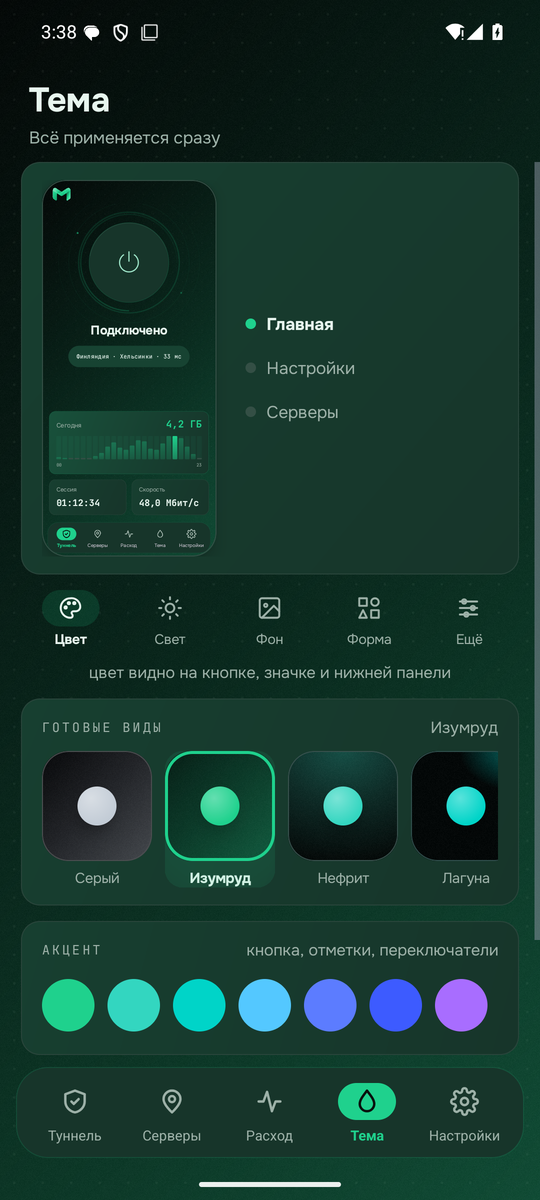
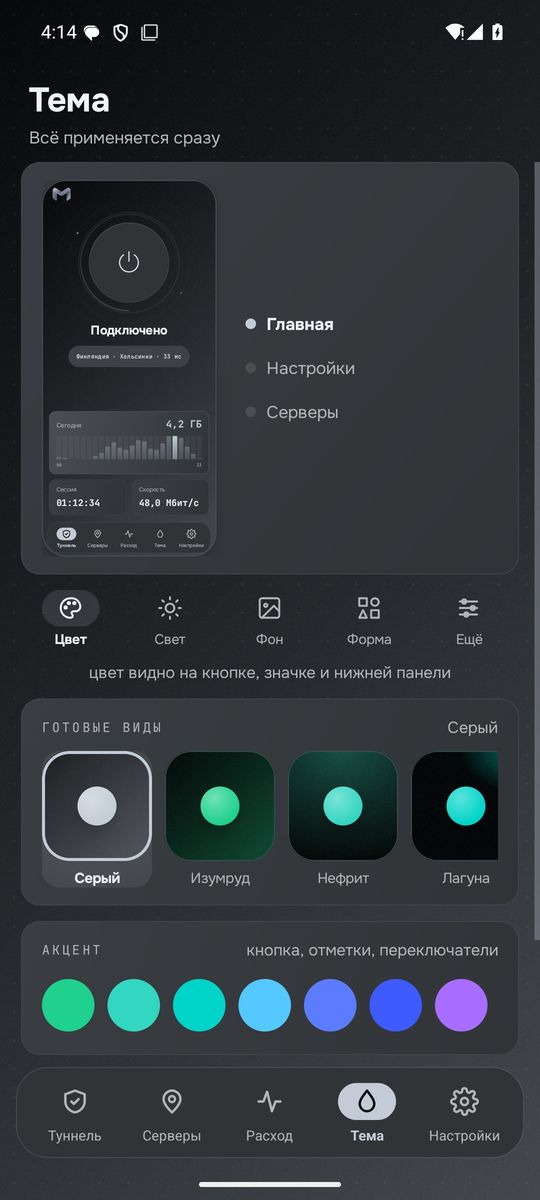
README показывает серую тему и сравнивает пути трафика

diff --git a/README.md b/README.md
@@ -1,131 +1,90 @@
 <div align="center">
 
-<img src="internal/look/assets/marvia-mark.png" alt="Логотип Marvia" height="76">
+<img src="internal/look/assets/marvia-mark.png" alt="Marvia" height="76">
 
 # Marvia
 
-### Подключение для человека. Своя инфраструктура для того, кто выдаёт доступ.
+**VPN для Android и Windows. Свои панель, ноды и протокол VP1.**
 
-Android и Windows · панель и ноды Linux · VP1, VLESS и Trojan
-
-[![Последний релиз](https://img.shields.io/github/v/release/jytt8u/marvia?label=релиз&color=8b9cad)](https://github.com/jytt8u/marvia/releases/latest)
+[![Релиз](https://img.shields.io/github/v/release/jytt8u/marvia?label=релиз&color=8b9cad)](https://github.com/jytt8u/marvia/releases/latest)
 [![Проверки](https://github.com/jytt8u/marvia/actions/workflows/check.yml/badge.svg)](https://github.com/jytt8u/marvia/actions)
-[![Go](https://img.shields.io/badge/Go-1.26.6-8b9cad)](go.mod)
 
-**[Скачать](https://github.com/jytt8u/marvia/releases/latest)** · **[Установить панель](#установка-панели)** · **[Документация](docs/guide.md)** · **[Что пока не готово](#что-пока-не-готово)**
+[**Скачать**](https://github.com/jytt8u/marvia/releases/latest) ·
+[**Установить панель**](#установка-панели) ·
+[**Документация**](docs/guide.md)
 
 </div>
 
----
+## В двух словах
 
-Marvia связывает два привычных сценария. Покупатель получает ссылку, открывает
-её в приложении и подключается. Владелец сервера разворачивает панель и ноды,
-выдаёт доступ вручную или через своего бота и видит сроки, лимиты и расход.
-Панель управляет доступом; VPN-трафик идёт **от приложения к ноде**.
+| Покупателю | Владельцу сервера |
+|---|---|
+| Одна ссылка, выбор живой ноды, расход и сессии в приложении | Панель, ноды, лимиты, резервные копии и API для своего бота |
+| Android: свои и чужие ключи; Windows: TUN-клиент | VP1 рядом с VLESS и Trojan; проверяемое обновление отдельной службой |
 
-## Посмотрите на приложение
+## Экраны
 
-Снимки сделаны с Android-приложения **0.12.2** на эмуляторе. Здесь пустой
-профиль без ключей: настоящие адреса и данные покупателей в README не попадают.
-Цифры в предпросмотре темы — макет.
+Android **0.12.2**, серый вид, эмулятор без ключей. Данные в предпросмотре темы — макет.
 
 <table>
 <tr>
-<td align="center" width="33%"><img src="docs/shots/android-home.png" alt="Главный экран Marvia для Android без добавленного ключа" width="245"><br><sub>Главная · состояние и расход</sub></td>
-<td align="center" width="33%"><img src="docs/shots/android-settings.png" alt="Настройки VPN и DNS в Marvia для Android" width="245"><br><sub>Настройки · маршруты, DNS, VPN</sub></td>
-<td align="center" width="33%"><img src="docs/shots/android-theme.png" alt="Настройка оформления Marvia для Android" width="245"><br><sub>Тема · предпросмотр и акценты</sub></td>
+<td align="center" width="33%"><img src="docs/shots/android-home.png" alt="Главный экран Marvia для Android" width="245"><br><sub>Туннель</sub></td>
+<td align="center" width="33%"><img src="docs/shots/android-settings.png" alt="Настройки Marvia для Android" width="245"><br><sub>Настройки VPN</sub></td>
+<td align="center" width="33%"><img src="docs/shots/android-theme.png" alt="Серый вид Marvia для Android" width="245"><br><sub>Тема</sub></td>
 </tr>
 </table>
 
-Панель для продавца — отдельное приложение на его сервере. Ниже демонстрационные
-записи, созданные для снимков экрана:
-
 <div align="center">
-<img src="docs/shots/panel-clients.png" alt="Панель Marvia: список клиентов на демонстрационных данных" width="900"><br>
-<sub>Клиенты: срок, устройства, трафик и статус</sub>
+<img src="docs/shots/panel-clients.png" alt="Панель Marvia: демонстрационный список клиентов" width="900"><br>
+<sub>Панель: демонстрационные клиенты, сроки, устройства и трафик</sub>
 </div>
 
-<details>
-<summary>Ещё один экран: оформление панели</summary>
-<br>
-<img src="docs/shots/panel-look.png" alt="Панель Marvia: выбор темы и акцентного цвета" width="900">
-</details>
+## Как это работает
 
-## Один доступ, две стороны
+<img src="docs/shots/readme-flow.svg" alt="Управление доступом через панель; VPN-трафик идёт от клиента к ноде без участия панели" width="1000">
 
-```mermaid
-flowchart LR
-    A["Владелец сервера"] -->|"создаёт клиента"| P["Панель Marvia"]
-    B["Свой бот"] -->|"HTTP API"| P
-    P -->|"ссылка доступа"| C["Android или Windows"]
-    P -.->|"права и лимиты"| N["Нода Marvia"]
-    C ==>|"VPN-трафик"| N
-    N ==>|"интернет"| I["Сайты и сервисы"]
-```
+Панель выдаёт права, но не передаёт пакеты. Нода может пережить краткую
+недоступность панели с зашифрованным снимком доступа до 24 часов.
+[Архитектура и границы доверия](docs/architecture.md).
 
-Приложение выбирает рабочую ноду и может перейти на другую, если текущая
-перестала отвечать. Нода не хранит историю посещений. При краткой недоступности
-панели она может запуститься с зашифрованным снимком прав доступа возрастом до
-24 часов; явный отзыв токена и отключение ноды имеют приоритет.
-[Подробнее об архитектуре и границах доверия](docs/architecture.md).
+## Скорость: сравниваем путь, а не вывеску панели
 
-Обновление сервера отделено от веб-панели:
+<img src="docs/shots/readme-speed.svg" alt="Прямой путь клиента к ноде и путь с дополнительным участком через CDN" width="1000">
 
-```mermaid
-flowchart LR
-    P["Панель"] -.->|"запросить обновление"| U["Служба обновления<br/>root"]
-    G["Официальный релиз<br/>GitHub"] -->|"архив и SHA-256"| U
-    U -->|"проверить и установить"| S["Панель или нода"]
-```
+| Сценарий | Путь трафика | Что влияет на результат |
+|---|---|---|
+| **Marvia VP1 напрямую** | клиент → нода | сеть, CPU, реализация VP1 |
+| **Marvia VLESS / Trojan напрямую** | клиент → нода | протокол, TLS и транспорт |
+| **Marzban / Remnawave / 3x-ui с Xray напрямую** | клиент → Xray-нода | те же сервер, сеть и настройки транспорта |
+| **Через CDN** | клиент → CDN → нода | дополнительный участок; доступность может стать лучше, задержка — другой |
 
-Панель не передаёт службе произвольный исполняемый файл. Служба скачивает
-официальный релиз и проверяет его контрольную сумму до установки.
+Во всех строках панель **вне пути пакетов**. Сопоставимых замеров на одинаковом
+сервере и сети пока нет, поэтому рейтинга в Мбит/с здесь нет.
 
-## Что здесь своё
+## Чем отличается от других
 
-| Для покупателя | Для владельца сервера |
-|---|---|
-| Приложения для Android и Windows с единым оформлением | Панель, ноды и API для собственного бота |
-| Одна ссылка Marvia со списком доступных нод | Сроки, квоты, лимит устройств, статистика и резервные копии |
-| На Android — также отдельные ключи и подписки VLESS, VMess, Trojan, Shadowsocks, Hysteria2 и WireGuard | VP1 рядом с VLESS и Trojan: можно обслуживать свои ключи и привычные Xray-клиенты |
-| Маршруты по приложениям, DNS, IPv6, дробление TLS-приветствия, история сессий и темы | Проверяемые релизы и отдельная служба обновления с правами root |
+| Проект | Основной фокус | Сильная сторона |
+|---|---|---|
+| **Marvia** | Панель + ноды + свои Android/Windows + VP1 | один комплект для покупателя и владельца |
+| [Marzban](https://github.com/Gozargah/Marzban) | Xray-панель | периодические квоты, Telegram-бот; есть отдельный [Nabzram](https://github.com/Gozargah/Nabzram) |
+| [Remnawave](https://docs.rw/) | Xray-панель и ноды | шаблоны Mihomo/sing-box, контроль устройств |
+| [3x-ui](https://docs.sanaei.dev/docs/) | Xray-панель | широкий выбор протоколов и админ-инструментов |
 
-VP1 использует Noise IK, X25519, ChaCha20-Poly1305 и BLAKE2s. Самодельных
-криптопримитивов нет; [формат и модель угроз описаны отдельно](docs/protocol.md).
+Marvia пока уступает по автоматическому месячному сбросу квот, импорту клиентов
+и форматам Clash/sing-box. Сравнение основано на документации проектов по
+ссылкам в таблице.
 
-## Как Marvia выглядит рядом с другими панелями
+## Начать
 
-Marvia — пока молодой **полный комплект**, где клиентские приложения развиваются
-в одном проекте с панелью и нодой. Другие проекты сильнее в ряде задач продавца;
-таблица помогает выбрать подходящий инструмент, а не объявляет победителя.
-
-| Проект | Фокус | Клиентский путь | Сильные стороны сегодня |
-|---|---|---|---|
-| **Marvia** | Панель + ноды + Android/Windows + VP1 | Свои приложения и ссылка Marvia; Android принимает внешние ключи | Единый интерфейс покупателя и сервера; свой протокол вместе с VLESS/Trojan |
-| [Marzban](https://github.com/Gozargah/Marzban) | Панель для Xray | Подписки для разных клиентов; есть отдельный [Nabzram](https://github.com/Gozargah/Nabzram) | Периодический сброс трафика, Telegram-бот, зрелая экосистема |
-| [Remnawave](https://docs.rw/) | Панель и ноды Xray | Шаблоны для Mihomo, sing-box и других клиентов | Гибкие форматы подписок и контроль устройств |
-| [3x-ui](https://docs.sanaei.dev/docs/) | Панель Xray | Подписки и конфигурации для разных клиентов | Много протоколов и инструментов администратора |
-
-Сравнение опирается на документацию проектов, ссылки приведены в названиях.
-Функции и форматы у них меняются; перед миграцией проверьте актуальный релиз.
-
-## Начать пользоваться
-
-### Если вам дали ключ
-
-1. Скачайте [Android APK](https://github.com/jytt8u/marvia/releases/latest/download/marvia-android.apk)
-   или [Windows-клиент](https://github.com/jytt8u/marvia/releases/latest/download/marvia-windows.exe).
-   В Google Play приложение пока не опубликовано.
-2. Откройте полученный ключ `marvia://…` во вкладке «Серверы».
-3. Подключитесь на главном экране. Состояние, скорость, расход и историю сессий
-   можно посмотреть в самом приложении.
-
-Для Android подходят также отдельные ключи и подписки перечисленных выше
-протоколов. [Руководство по клиенту](docs/guide.md#клиент-для-android).
+**Получили ключ?** Скачайте [Android APK](https://github.com/jytt8u/marvia/releases/latest/download/marvia-android.apk)
+или [Windows-клиент](https://github.com/jytt8u/marvia/releases/latest/download/marvia-windows.exe),
+добавьте ссылку `marvia://…` во вкладке «Серверы» и подключитесь.
+Android также принимает VLESS, VMess, Trojan, Shadowsocks, Hysteria2 и WireGuard.
+В Google Play приложения пока нет.
 
 ### Установка панели
 
-Понадобятся Linux-сервер и домен с A-записью на него. Скачайте установщик из
+Нужны Linux-сервер и домен с A-записью. Установщик берётся из
 [официального релиза](https://github.com/jytt8u/marvia/releases/latest):
 
 ```bash
@@ -133,49 +92,36 @@ curl -fsSL https://github.com/jytt8u/marvia/releases/latest/download/install-pan
 sh install-panel.sh --domain panel.example.com --email you@example.com
 ```
 
-Установщик проверит контрольные суммы, настроит службу и сертификат. Админский
-токен показывается один раз — сохраните его отдельно. Затем в панели:
-**Ноды → + Нода** выдаст команду установки на другой сервер, а
-**Клиенты → + Клиент** создаст первую ссылку. Для своего бота есть
-[HTTP API](docs/bot.md). [Полная инструкция, требования и восстановление](docs/guide.md).
+Сохраните показанный при установке админский токен. Затем создайте ноду и
+клиента в панели. [Полный порядок](docs/guide.md) · [API бота](docs/bot.md).
 
 ## Что пока не готово
 
-- **Google Play.** Нужны физическая проверка актуальной сборки, политика
-  конфиденциальности внутри приложения, декларации VPN и фоновой службы,
-  тестовый доступ для проверки и тестирование в Play Console.
-  [План публикации](docs/google-play.md).
-- **Для продавцов.** Нет автоматического ежемесячного сброса квоты и импорта
-  покупателей из чужих панелей с сохранением ссылок.
-- **Форматы и платформы.** Нет iOS-клиента, форматов подписок Clash и sing-box,
-  TUIC и плагинов Shadowsocks. Несколько устройств с общим ключом нельзя
-  отозвать по отдельности.
-- **До версии 1.0.** Нужно стабилизировать API бота и форматы ссылок, проверить
-  установку и откат на чистых серверах и добавить поэтапное обновление нод.
+- Google Play: физическая проверка сборки, политика конфиденциальности в
+  приложении, декларации и тестирование. [План публикации](docs/google-play.md).
+- Автоматический месячный сброс квоты и импорт покупателей с сохранением ссылок.
+- iOS, подписки Clash/sing-box, TUIC, плагины Shadowsocks и раздельный отзыв
+  устройств с общим ключом.
+- До 1.0: стабилизация API и ссылок, проверка отката и поэтапное обновление нод.
 
-Версия ниже 1.0 означает, что API и форматы ещё могут меняться. Marvia не
-предоставляет хостинг нод и не принимает платежи: серверы и бот принадлежат
-тому, кто выдаёт доступ.
+Marvia не продаёт доступ, не принимает платежи и не размещает серверы.
+Версия ниже 1.0 означает, что API и форматы могут меняться.
 
-## Документация и сборка
+## Документы и сборка
 
-| Документ | Содержание |
-|---|---|
-| [Руководство](docs/guide.md) | установка, эксплуатация, клиенты и сборка |
-| [Публикация в Google Play](docs/google-play.md) | AAB, ключ подписи и Play Console |
-| [Архитектура](docs/architecture.md) | панель, ноды, клиенты и безопасность |
-| [Протокол VP1](docs/protocol.md) | хендшейк, кадры, маскировка и ограничения |
-| [API для бота](docs/bot.md) | выдача и управление доступом |
-| [Конфиденциальность](docs/privacy.md) | данные на устройстве и сервере |
-| [История изменений](CHANGELOG.md) | изменения по версиям |
+[Руководство](docs/guide.md) ·
+[Архитектура](docs/architecture.md) ·
+[Протокол VP1](docs/protocol.md) ·
+[Конфиденциальность](docs/privacy.md) ·
+[История версий](CHANGELOG.md)
 
 Для серверных бинарников нужен Go 1.26.6+:
 
 ```bash
 go test ./...
+go vet ./...
 go build -o bin/ ./...
 ```
 
-Android собирается отдельно. Подписанные APK и AAB создаёт
-[`scripts/publish-apk.ps1`](scripts/publish-apk.ps1); ключ подписи хранится вне
-репозитория. [Инструкция по сборке](docs/guide.md#сборка-версия-и-подпись).
+Android собирается отдельно через [`scripts/publish-apk.ps1`](scripts/publish-apk.ps1);
+ключ подписи хранится вне репозитория.
